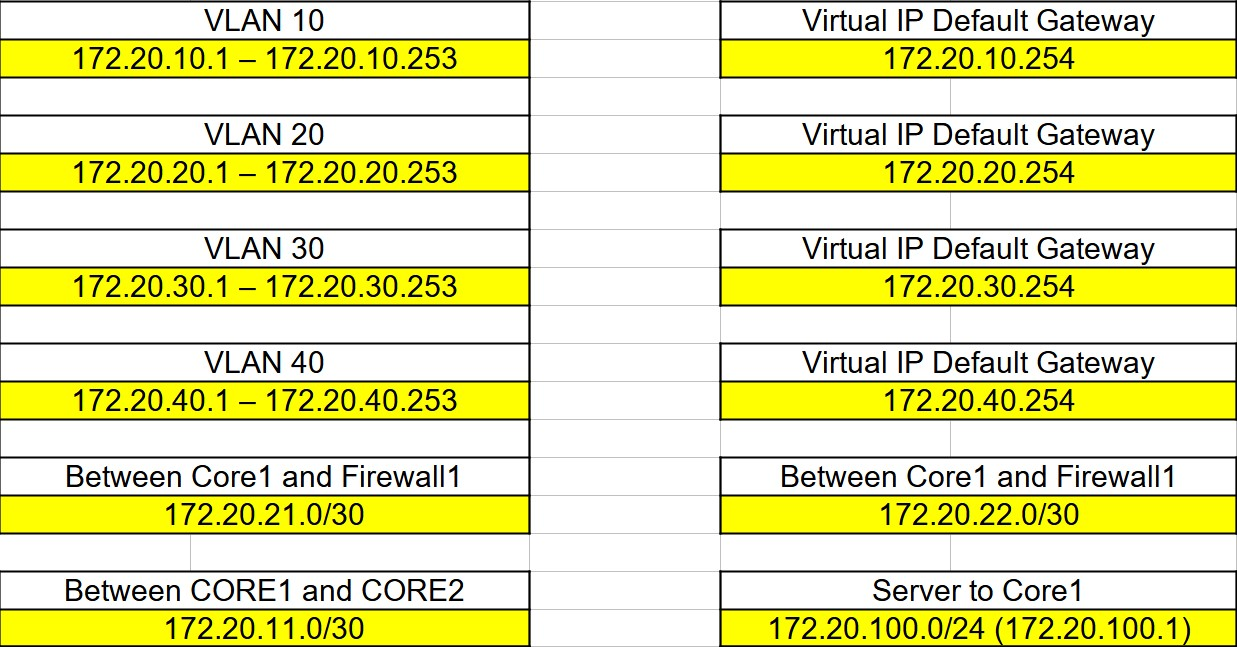
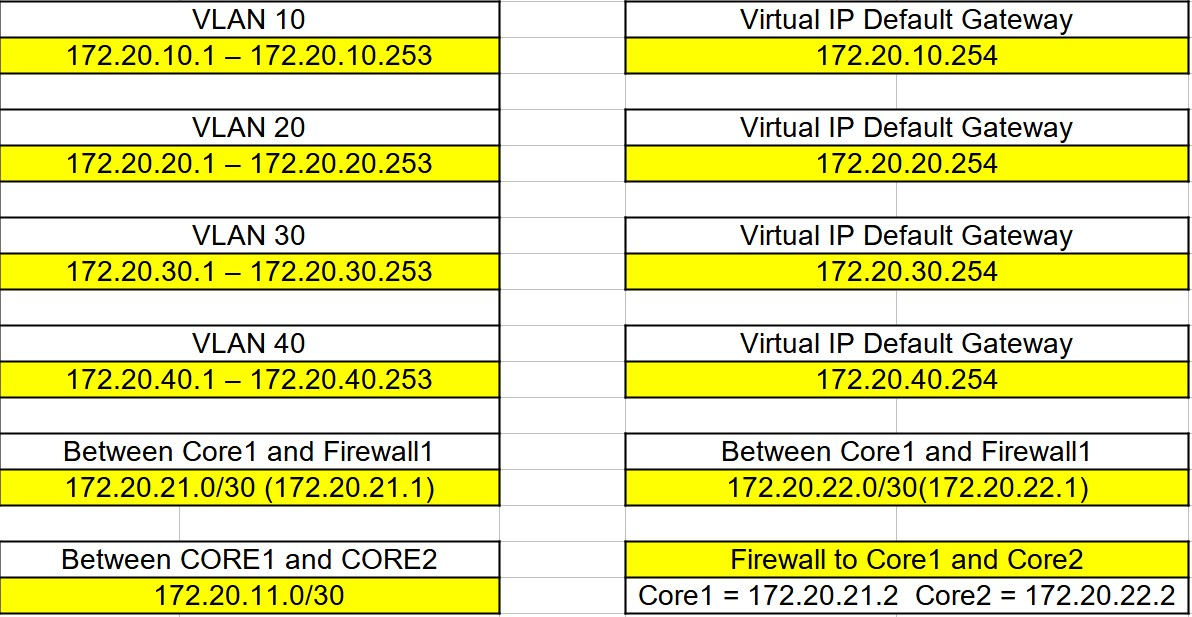
Add files via upload

diff --git a/lab2/index.html b/lab2/index.html
@@ -22,7 +22,7 @@
     
     
       
-        <title>Lab 2 (Not Finish) - Jayson Laurence M. Galicia</title>
+        <title>Own Network Design with Firewall (Fortinet) - Jayson Laurence M. Galicia</title>
       
     
     
@@ -112,7 +112,7 @@
         <div class="md-header__topic" data-md-component="header-topic">
           <span class="md-ellipsis">
             
-              Lab 2 (Not Finish)
+              Own Network Design with Firewall (Fortinet)
             
           </span>
         </div>
@@ -443,7 +443,7 @@
           
   
   <span class="md-ellipsis">
-    Lab 2 (Not Finish)
+    Own Network Design with Firewall (Fortinet)
   </span>
   
 
@@ -454,7 +454,7 @@
         
   
   <span class="md-ellipsis">
-    Lab 2 (Not Finish)
+    Own Network Design with Firewall (Fortinet)
   </span>
   
 
@@ -497,6 +497,81 @@
       Interface Connection
     </span>
   </a>
+  
+</li>
+      
+        <li class="md-nav__item">
+  <a href="#firewall-configuration-fortinet" class="md-nav__link">
+    <span class="md-ellipsis">
+      Firewall Configuration (Fortinet)
+    </span>
+  </a>
+  
+    <nav class="md-nav" aria-label="Firewall Configuration (Fortinet)">
+      <ul class="md-nav__list">
+        
+          <li class="md-nav__item">
+  <a href="#network-interfaces" class="md-nav__link">
+    <span class="md-ellipsis">
+      Network Interfaces
+    </span>
+  </a>
+  
+</li>
+        
+          <li class="md-nav__item">
+  <a href="#static-configuration" class="md-nav__link">
+    <span class="md-ellipsis">
+      Static Configuration
+    </span>
+  </a>
+  
+</li>
+        
+          <li class="md-nav__item">
+  <a href="#ospf-configuration-default-route-injected" class="md-nav__link">
+    <span class="md-ellipsis">
+      OSPF Configuration (Default Route Injected)
+    </span>
+  </a>
+  
+</li>
+        
+          <li class="md-nav__item">
+  <a href="#firewall-policies" class="md-nav__link">
+    <span class="md-ellipsis">
+      Firewall Policies
+    </span>
+  </a>
+  
+</li>
+        
+      </ul>
+    </nav>
+  
+</li>
+      
+        <li class="md-nav__item">
+  <a href="#configuration-of-each-device" class="md-nav__link">
+    <span class="md-ellipsis">
+      Configuration of Each Device
+    </span>
+  </a>
+  
+    <nav class="md-nav" aria-label="Configuration of Each Device">
+      <ul class="md-nav__list">
+        
+          <li class="md-nav__item">
+  <a href="#core-switches" class="md-nav__link">
+    <span class="md-ellipsis">
+      Core Switches
+    </span>
+  </a>
+  
+</li>
+        
+      </ul>
+    </nav>
   
 </li>
       
@@ -658,21 +733,47 @@
   
 
 
-  <h1>Lab 2 (Not Finish)</h1>
+  <h1>Own Network Design with Firewall (Fortinet)</h1>
 
 <p><img alt="Profile2" src="../images/test.jpg" width="750" /></p>
 <div class="admonition note">
 <p class="admonition-title">Note</p>
-<p>In this lab, I use Cisco images that only support Ethernet speed because I need a lightweight option to build the lab. However, whether you're going to build this lab physically or virtually, it's going to be the same.</p>
+<p>In this lab, I used simple Cisco images that support only Ethernet speed because I needed a light option for building the setup. Whether you're doing it physically or virtually, the setup is the same. I only used one Fortinet device because of hardware limitations. The Server that I used here is only a Router and the Vswitch here is a unmanaged switch that replicates a Windows Server.</p>
 </div>
 <h2 id="lab-connectivity-and-addresses"><strong>Lab Connectivity and Addresses</strong></h2>
+<p>Listed here are the subnets and VLANs for each interface and switch. Each switch has its own VLAN and serves as the default gateway for VLANs 10, 20, 30, and 40. Additionally, there is a dedicated subnet specifically for management purposes.</p>
 <p><img alt="pic_subnets" src="../images/vlans.jpg" width="700" /></p>
 <p><img alt="pic_subnets" src="../images/vlans2.jpg" width="700" /></p>
 <h2 id="redundancy-and-load-balance"><strong>Redundancy and Load Balance</strong></h2>
+<p>I have configured VLAN 10 and 30 on Core1 and VLAN 20 and 40 on Core2 for load balancing purposes. In the table below, the green cells represent the main traffic for each VLAN, while the gray cells indicate backup traffic in case the main Core switch for the VLAN is down.</p>
 <p><img alt="Pic_redundant" src="../images/redundancy.jpg" /></p>
 <h2 id="interface-connection"><strong>Interface Connection</strong></h2>
 <p><img alt="pic_interface" src="../images/interface.jpg" width="700" />
 <img alt="pic_interface" src="../images/pc_connection.jpg" width="700" /></p>
+<h2 id="firewall-configuration-fortinet"><strong>Firewall Configuration (Fortinet)</strong></h2>
+<div class="admonition note">
+<p class="admonition-title">Note</p>
+<p>Since I don't have any license, the configuration may be limited due to the free Evaluation License provided by Fortinet, which can be reviewed here. <a href="https://docs.fortinet.com/document/fortigate/7.4.2/administration-guide/441460">VM Permanent Evaluation License</a></p>
+</div>
+<h3 id="network-interfaces">Network Interfaces</h3>
+<p>The WAN IP is set to my home network, with the next-hop IP being the default gateway of my router. I am using the WAN IP to configure the Fortinet Firewall.</p>
+<p><img alt="fw_interface" src="../images/fortinet_interface.jpg" width="900" /></p>
+<h3 id="static-configuration">Static Configuration</h3>
+<p><img alt="fw_static" src="../images/fortinet_static.jpg" width="900" /></p>
+<h3 id="ospf-configuration-default-route-injected">OSPF Configuration (Default Route Injected)</h3>
+<p>I use OSPF to enable routers to reach the LAN network and inject the default route. This ensures that <strong>Core 1</strong> and <strong>Core 2</strong> know how to route packets for which they don't have a specific entry in their routing tables.</p>
+<p><img alt="fw_ospf" src="../images/fortinet_ospf.jpg" width="1200" />
+<img alt="fw_ospf" src="../images/fortinet_ospf2.jpg" width="500" /></p>
+<h3 id="firewall-policies">Firewall Policies</h3>
+<p>I configured two policies for traffic from Core1 and Core2, without utilizing features such as antivirus or web policies.</p>
+<p><img alt="fw_policy" src="../images/fortinet_policy.jpg" width="900" />
+<img alt="fw_policy" src="../images/fortinet_policy2.jpg" width="900" /></p>
+<h2 id="configuration-of-each-device">Configuration of Each Device</h2>
+<div class="admonition note">
+<p class="admonition-title">Note</p>
+<p>I will include the commands, firewall configuration, and the Excel file used for the design in my GitHub repository.</p>
+</div>
+<h3 id="core-switches">Core Switches</h3>
 
 
 

diff --git a/certs/index.html b/certs/index.html
@@ -434,7 +434,7 @@
         
   
   <span class="md-ellipsis">
-    Lab 2 (Not Finish)
+    Own Network Design with Firewall (Fortinet)
   </span>
   
 
@@ -697,7 +697,7 @@
       <nav class="md-footer__inner md-grid" aria-label="Footer" >
         
           
-          <a href="../lab2/" class="md-footer__link md-footer__link--prev" aria-label="Previous: Lab 2 (Not Finish)">
+          <a href="../lab2/" class="md-footer__link md-footer__link--prev" aria-label="Previous: Own Network Design with Firewall (Fortinet)">
             <div class="md-footer__button md-icon">
               
               <svg xmlns="http://www.w3.org/2000/svg" viewBox="0 0 24 24"><path d="M20 11v2H8l5.5 5.5-1.42 1.42L4.16 12l7.92-7.92L13.5 5.5 8 11h12Z"/></svg>
@@ -707,7 +707,7 @@
                 Previous
               </span>
               <div class="md-ellipsis">
-                Lab 2 (Not Finish)
+                Own Network Design with Firewall (Fortinet)
               </div>
             </div>
           </a>

diff --git a/inter-vlan/index.html b/inter-vlan/index.html
@@ -521,7 +521,7 @@
         
   
   <span class="md-ellipsis">
-    Lab 2 (Not Finish)
+    Own Network Design with Firewall (Fortinet)
   </span>
   
 
@@ -1257,13 +1257,13 @@ PC5&gt;
         
         
           
-          <a href="../lab2/" class="md-footer__link md-footer__link--next" aria-label="Next: Lab 2 (Not Finish)">
+          <a href="../lab2/" class="md-footer__link md-footer__link--next" aria-label="Next: Own Network Design with Firewall (Fortinet)">
             <div class="md-footer__title">
               <span class="md-footer__direction">
                 Next
               </span>
               <div class="md-ellipsis">
-                Lab 2 (Not Finish)
+                Own Network Design with Firewall (Fortinet)
               </div>
             </div>
             <div class="md-footer__button md-icon">

diff --git a/index.html b/index.html
@@ -508,7 +508,7 @@
         
   
   <span class="md-ellipsis">
-    Lab 2 (Not Finish)
+    Own Network Design with Firewall (Fortinet)
   </span>
   
 
@@ -683,7 +683,7 @@
 <h2 id="network-labs"><strong>Network Labs</strong></h2>
 <ol>
 <li><a href="inter-vlan/">Layer 3 Switch Inter-VLAN with DHCP and NAT</a></li>
-<li><a href="lab2/">Lab 2 (On the process)</a></li>
+<li><a href="lab2/">Own Network Design with Firewall (Fortinet)</a></li>
 </ol>
 <h2 id="current-goals"><strong>Current Goals</strong></h2>
 <ul class="task-list">

diff --git a/404.html b/404.html
@@ -421,7 +421,7 @@
         
   
   <span class="md-ellipsis">
-    Lab 2 (Not Finish)
+    Own Network Design with Firewall (Fortinet)
   </span>
   
 

diff --git a/tools/index.html b/tools/index.html
@@ -432,7 +432,7 @@
         
   
   <span class="md-ellipsis">
-    Lab 2 (Not Finish)
+    Own Network Design with Firewall (Fortinet)
   </span>
   
 

diff --git a/training/index.html b/training/index.html
@@ -434,7 +434,7 @@
         
   
   <span class="md-ellipsis">
-    Lab 2 (Not Finish)
+    Own Network Design with Firewall (Fortinet)
   </span>
   
 
